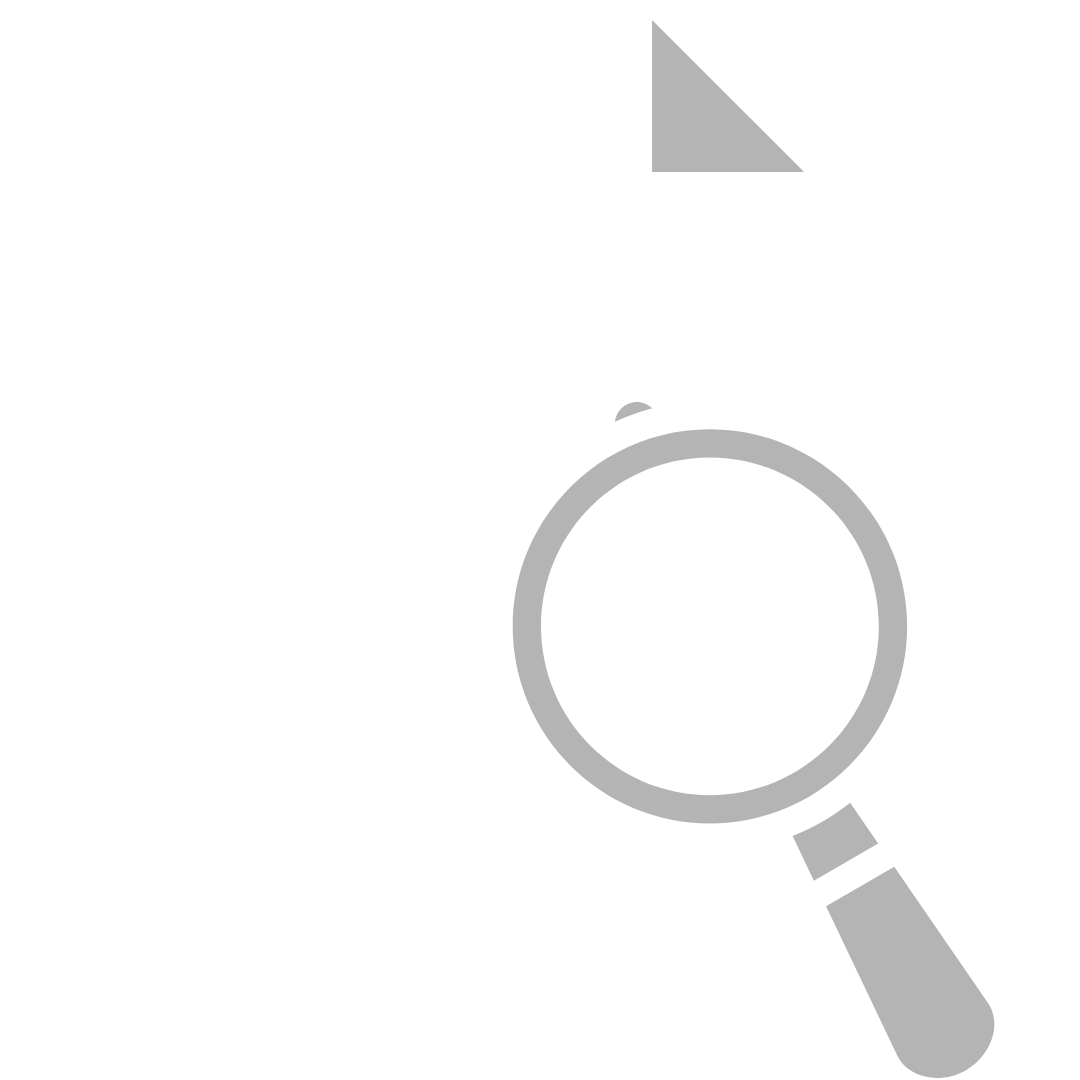
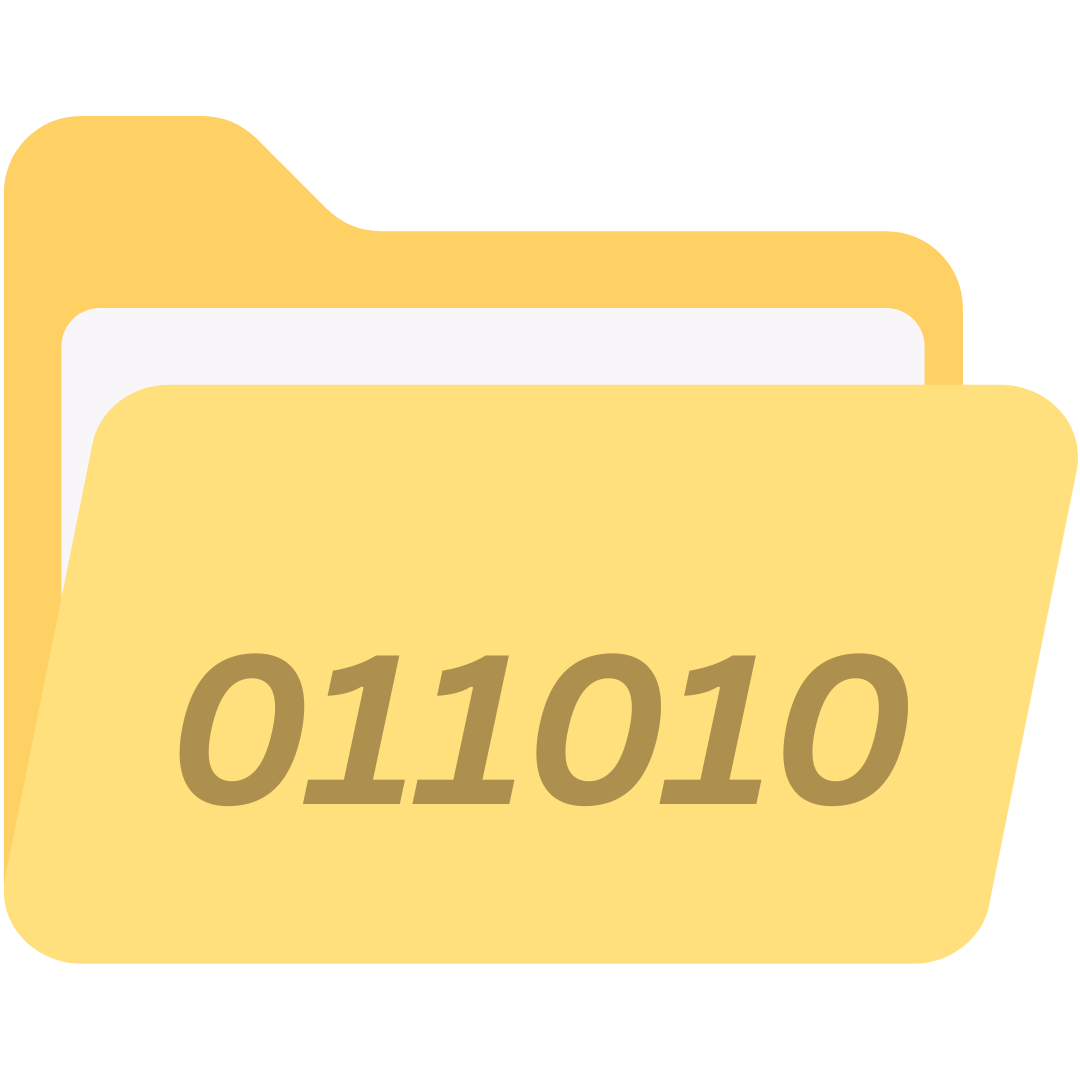
Update

diff --git a/Serializer/Src/FileConverter.cs b/Serializer/Src/FileConverter.cs
@@ -1,5 +1,5 @@
 
-namespace BenScr.Serialization
+namespace BenScr.Serializer
 {
     public enum Format { Json = 0, Xml = 1, Binary = 2 }
 
@@ -22,7 +22,7 @@ namespace BenScr.Serialization
             {
                 Format.Json => Json.Json.Load<object>(path),
                 Format.Xml => Xml.Xml.Load<object>(path),
-                Format.Binary => Binary.Binary.Load<object>(path),
+                Format.Binary => Binary.Load<object>(path),
                 _ => throw new NotSupportedException($"Unsupported format: {original}")
             };
 

diff --git a/Playground/Program.cs b/Playground/Program.cs
@@ -1,7 +1,7 @@
-using BenScr.Serialization.Binary;
-using BenScr.Serialization.Json;
-using BenScr.Serialization.Xml;
-using BenScr.Serialization;
+using BenScr.Serializer.Binary;
+using BenScr.Serializer.Json;
+using BenScr.Serializer.Xml;
+using BenScr.Serializer;
 using System.Diagnostics;
 
 public static class Program

diff --git a/Serializer/Src/JsonSecure.cs b/Serializer/Src/JsonSecure.cs
@@ -1,7 +1,7 @@
 using System.Security.Cryptography;
 using System.Text.Json;
 
-namespace BenScr.Serialization.Json
+namespace BenScr.Serializer
 {
     public static class JsonSecure
     {

diff --git a/Serializer/Src/Json.cs b/Serializer/Src/Json.cs
@@ -2,7 +2,7 @@
 using System.Security.Cryptography;
 using System.Text.Json;
 
-namespace BenScr.Serialization.Json
+namespace BenScr.Serializer
 {
     public static class Json
     {

diff --git a/Serializer/Src/Xml.cs b/Serializer/Src/Xml.cs
@@ -2,7 +2,7 @@
 using System.Text.Json;
 using System.Xml.Serialization;
 
-namespace BenScr.Serialization.Xml
+namespace BenScr.Serializer
 {
     public static class Xml
     {

diff --git a/Serializer/Src/Binary.cs b/Serializer/Src/Binary.cs
@@ -1,6 +1,6 @@
 using MessagePack;
 
-namespace BenScr.Serialization.Binary
+namespace BenScr.Serializer
 {
     public static class Binary
     {

diff --git a/README.md b/README.md
@@ -6,9 +6,7 @@ A Performant C# `Net 9.0` Serialization library that combines Json, Xml and Bina
 
 ## How to use
 ```csharp
-using BenScr.Serialization.Json;
-using BenScr.Serialization.Xml;
-using BenScr.Serialization.Binary;
+using BenScr.Serializer;
 ```
 
 - Json
